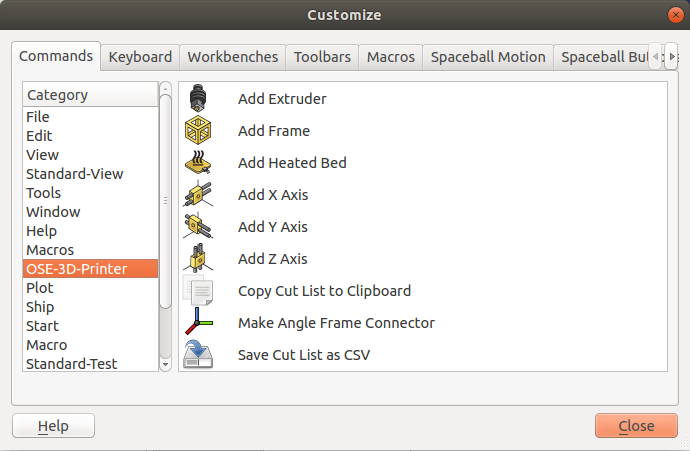
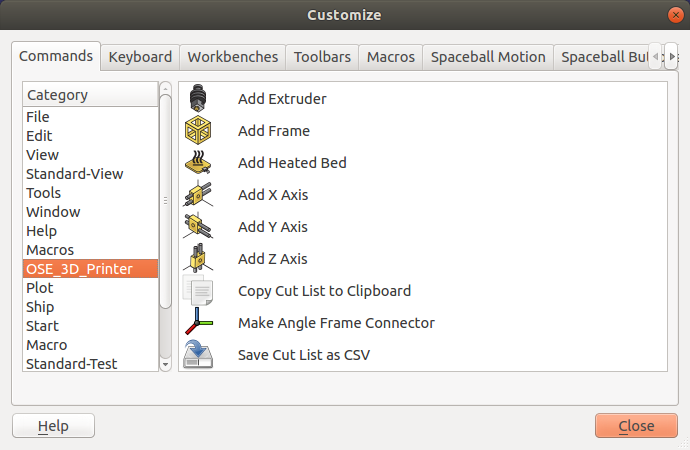
Various changes to improve docs
Remove autosummary sphinx extension
Update package template to include automodule of package
Add freecadwikipage to extlinks extension
Use underscores instead of dashes for command registry module name
Use jinja time extension in cookiecutter to generate year for templates

diff --git a/osewb/cookiecutter_ose_workbench/{{ cookiecutter.repo_name }}/{{ cookiecutter.base_package }}/gui/{{ cookiecutter.command_registry_filename}}.py b/osewb/cookiecutter_ose_workbench/{{ cookiecutter.repo_name }}/{{ cookiecutter.base_package }}/gui/{{ cookiecutter.command_registry_filename}}.py
@@ -2,7 +2,7 @@ import FreeCADGui as Gui
 
 from .command.add_box import AddBoxCommand
 
-#: Command Namespace: Must be unique to all FreeCAD workbenches.
+#: Command Namespace
 command_namespace = '{{ cookiecutter.command_namespace }}'
 
 
@@ -11,7 +11,7 @@ def register_commands():
     Register all workbench commands,
     and associate them to toolbars, menus, sub-menus, and context menu.
     """
-    add_box_key = register(AddBoxCommand.NAME, AddBoxCommand())
+    add_box_key = _register(AddBoxCommand.NAME, AddBoxCommand())
 
     #: Main Toolbar Commands
     main_toolbar_commands = [
@@ -26,15 +26,15 @@ def register_commands():
     return main_toolbar_commands, main_menu_commands
 
 
-def register(name, command):
+def _register(name, command):
     """Register a command via Gui.addCommand.
     FreeCAD uses the filename where Gui.addCommand is executed as a category
     to group commands together in it's UI.
     """
-    key = from_command_name_to_key(name)
+    key = _from_command_name_to_key(name)
     Gui.addCommand(key, command)
     return key
 
 
-def from_command_name_to_key(command_name):
+def _from_command_name_to_key(command_name):
     return '{}_{}'.format(command_namespace, command_name)

diff --git a/osewb/docs/conf.py b/osewb/docs/conf.py
@@ -28,10 +28,6 @@ conf = {
         # https://www.sphinx-doc.org/en/master/man/sphinx-apidoc.html
         'sphinx.ext.apidoc',
 
-        # Generate autodoc summaries
-        # https://www.sphinx-doc.org/en/master/usage/extensions/autosummary.html
-        'sphinx.ext.autosummary',
-
         # Helps with having many external links that point to the OSE Wiki.
         # https://www.sphinx-doc.org/en/master/usage/extensions/extlinks.html
         'sphinx.ext.extlinks',
@@ -61,6 +57,9 @@ conf = {
             'extlinks': {
                 'osewikipage': (
                     'https://wiki.opensourceecology.org/wiki/%s', ''
+                ),
+                'freecadwikipage': (
+                    'https://wiki.freecadweb.org/%s', ''
                 )
             }
         }

diff --git a/osewb/cookiecutter_ose_workbench/{{ cookiecutter.repo_name }}/{{ cookiecutter.base_package }}/gui/{{ cookiecutter.workbench_class_filename }}.py b/osewb/cookiecutter_ose_workbench/{{ cookiecutter.repo_name }}/{{ cookiecutter.base_package }}/gui/{{ cookiecutter.workbench_class_filename }}.py
@@ -20,11 +20,9 @@ class {{ cookiecutter.workbench_class_name }}(Gui.Workbench):
         """
         Executed when FreeCAD starts
         """
-        from importlib import import_module
-        command_registry = import_module(
-            '.{{ cookiecutter.command_registry_filename }}', package='{{ cookiecutter.base_package }}.gui')
+        import {{ cookiecutter.base_package }}.gui.{{ cookiecutter.command_registry_filename }} as registry
 
-        main_toolbar, main_menu = command_registry.register_commands()
+        main_toolbar, main_menu = registry.register_commands()
 
         self.appendToolbar('{{ cookiecutter.machine_title }}', main_toolbar)
         self.appendMenu('{{ cookiecutter.machine_title }}', main_menu)

diff --git a/osewb/cookiecutter_ose_workbench/{{ cookiecutter.repo_name }}/docs/conf.py b/osewb/cookiecutter_ose_workbench/{{ cookiecutter.repo_name }}/docs/conf.py
@@ -48,7 +48,7 @@ def setup(app):
 # -- Project information -----------------------------------------------------
 
 project = '{{ cookiecutter.workbench_title }}'
-copyright = '2020, {{ cookiecutter.owner_name }}'
+copyright = '{{ cookiecutter.year }}, {{ cookiecutter.owner_name }}'
 author = '{{ cookiecutter.owner_name }}'
 
 # The full version, including alpha/beta/rc tags

diff --git a/setup.py b/setup.py
@@ -26,6 +26,7 @@ setup(
         # | Source Requirements |
         # -----------------------
         'cookiecutter==1.7.2',
+        'jinja2-time==0.2.0'
         'docker==4.2.0',
 
         # ---------------------

diff --git a/docs/pages/pattern_catalog/gui_package.rst b/docs/pages/pattern_catalog/gui_package.rst
@@ -94,17 +94,15 @@ Every workbench contains a **command registry module** within the ``gui`` packag
 
 The command registry module is where all commands are imported, registered via ``Gui.addCommand``, and associated together into lists for adding to toolbars or menus.
 
-The command registry module name follows the pattern ``OSE-<Machine>.py``, where ``<Machine>`` is the name of the machine, with spaces delimited by dashes ``-``.
+The command registry module name follows the pattern ``OSE_<Machine>.py``, where ``<Machine>`` is the name of the machine, with spaces delimited by underscores ``_``.
 
-For example, the command registry module name for the 3D Printer workbench is named ``OSE-3D-Printer.py``.
+For example, the command registry module name for the 3D Printer workbench is named ``OSE_3D_Printer.py``.
 
-Normally python modules use all lower-case letters, and underscores ``_`` to delimit spaces, so why the deviation?
+Normally python modules use all lower-case letters, so why the deviation?
 
 FreeCAD derives a "Category" to organize commands from the name of the Python module where ``Gui.addCommand`` is called.
 
-Since all commands in the workbench are registered with ``Gui.addCommand`` in a Python module called ``OSE-3D-Printer.py``, the derived "Category" for grouping these commands is "OSE-3D-Printer".
-
-We use dashes to be consistent with other command categories like ``Standard-View`` and ``Standard-Test``.
+Since all commands in the workbench are registered with ``Gui.addCommand`` in a Python module called ``OSE_3D_Printer.py``, the derived "Category" for grouping these commands is "OSE_3D_Printer".
 
 .. image:: /_static/commands.png
 
@@ -135,10 +133,10 @@ You can see a simple and relatively complete command registry module example bas
         Register all workbench commands,
         and associate them to toolbars, menus, sub-menus, and context menu.
         """
-        add_frame_key = register(AddFrameCommand.NAME, AddFrameCommand())
-        add_heated_bed_key = register(
+        add_frame_key = _register(AddFrameCommand.NAME, AddFrameCommand())
+        add_heated_bed_key = _register(
             AddHeatedBedCommand.NAME, AddHeatedBedCommand())
-        add_extruder_key = register(AddExtruderCommand.NAME, AddExtruderCommand())
+        add_extruder_key = _register(AddExtruderCommand.NAME, AddExtruderCommand())
 
         #: Main Toolbar Commands
         main_toolbar_commands = [
@@ -149,18 +147,18 @@ You can see a simple and relatively complete command registry module example bas
         return main_toolbar_commands
 
 
-    def register(name, command):
+    def _register(name, command):
         """Register a command via Gui.addCommand.
 
         FreeCAD uses the filename where Gui.addCommand is executed as a category
         to group commands together in it's UI.
         """
-        key = from_command_name_to_key(name)
+        key = _from_command_name_to_key(name)
         Gui.addCommand(key, command)
         return key
 
 
-    def from_command_name_to_key(command_name):
+    def _from_command_name_to_key(command_name):
         return '{}_{}'.format(command_namespace, command_name)
 
 Icon Sub-package

diff --git a/docs/osewb/osewb.rst b/docs/osewb/osewb.rst
@@ -1,22 +1,15 @@
 
 osewb
 =====
+.. automodule:: osewb
+   :members:
+   :undoc-members:
+   :show-inheritance:
 
 .. toctree::
    :maxdepth: 1
 
    osewb.docs
-
-
-
-.. autosummary::
-    osewb.check_for_executable_in_path
-
-    osewb.find_base_package
-
-    osewb.generate_property_tables
-
-    osewb.osewb
 
 
 check_for_executable_in_path

diff --git a/docs/osewb/osewb.docs.rst b/docs/osewb/osewb.docs.rst
@@ -1,10 +1,10 @@
 
 osewb.docs
 ==========
-
-
-.. autosummary::
-    osewb.docs.conf
+.. automodule:: osewb.docs
+   :members:
+   :undoc-members:
+   :show-inheritance:
 
 
 conf
